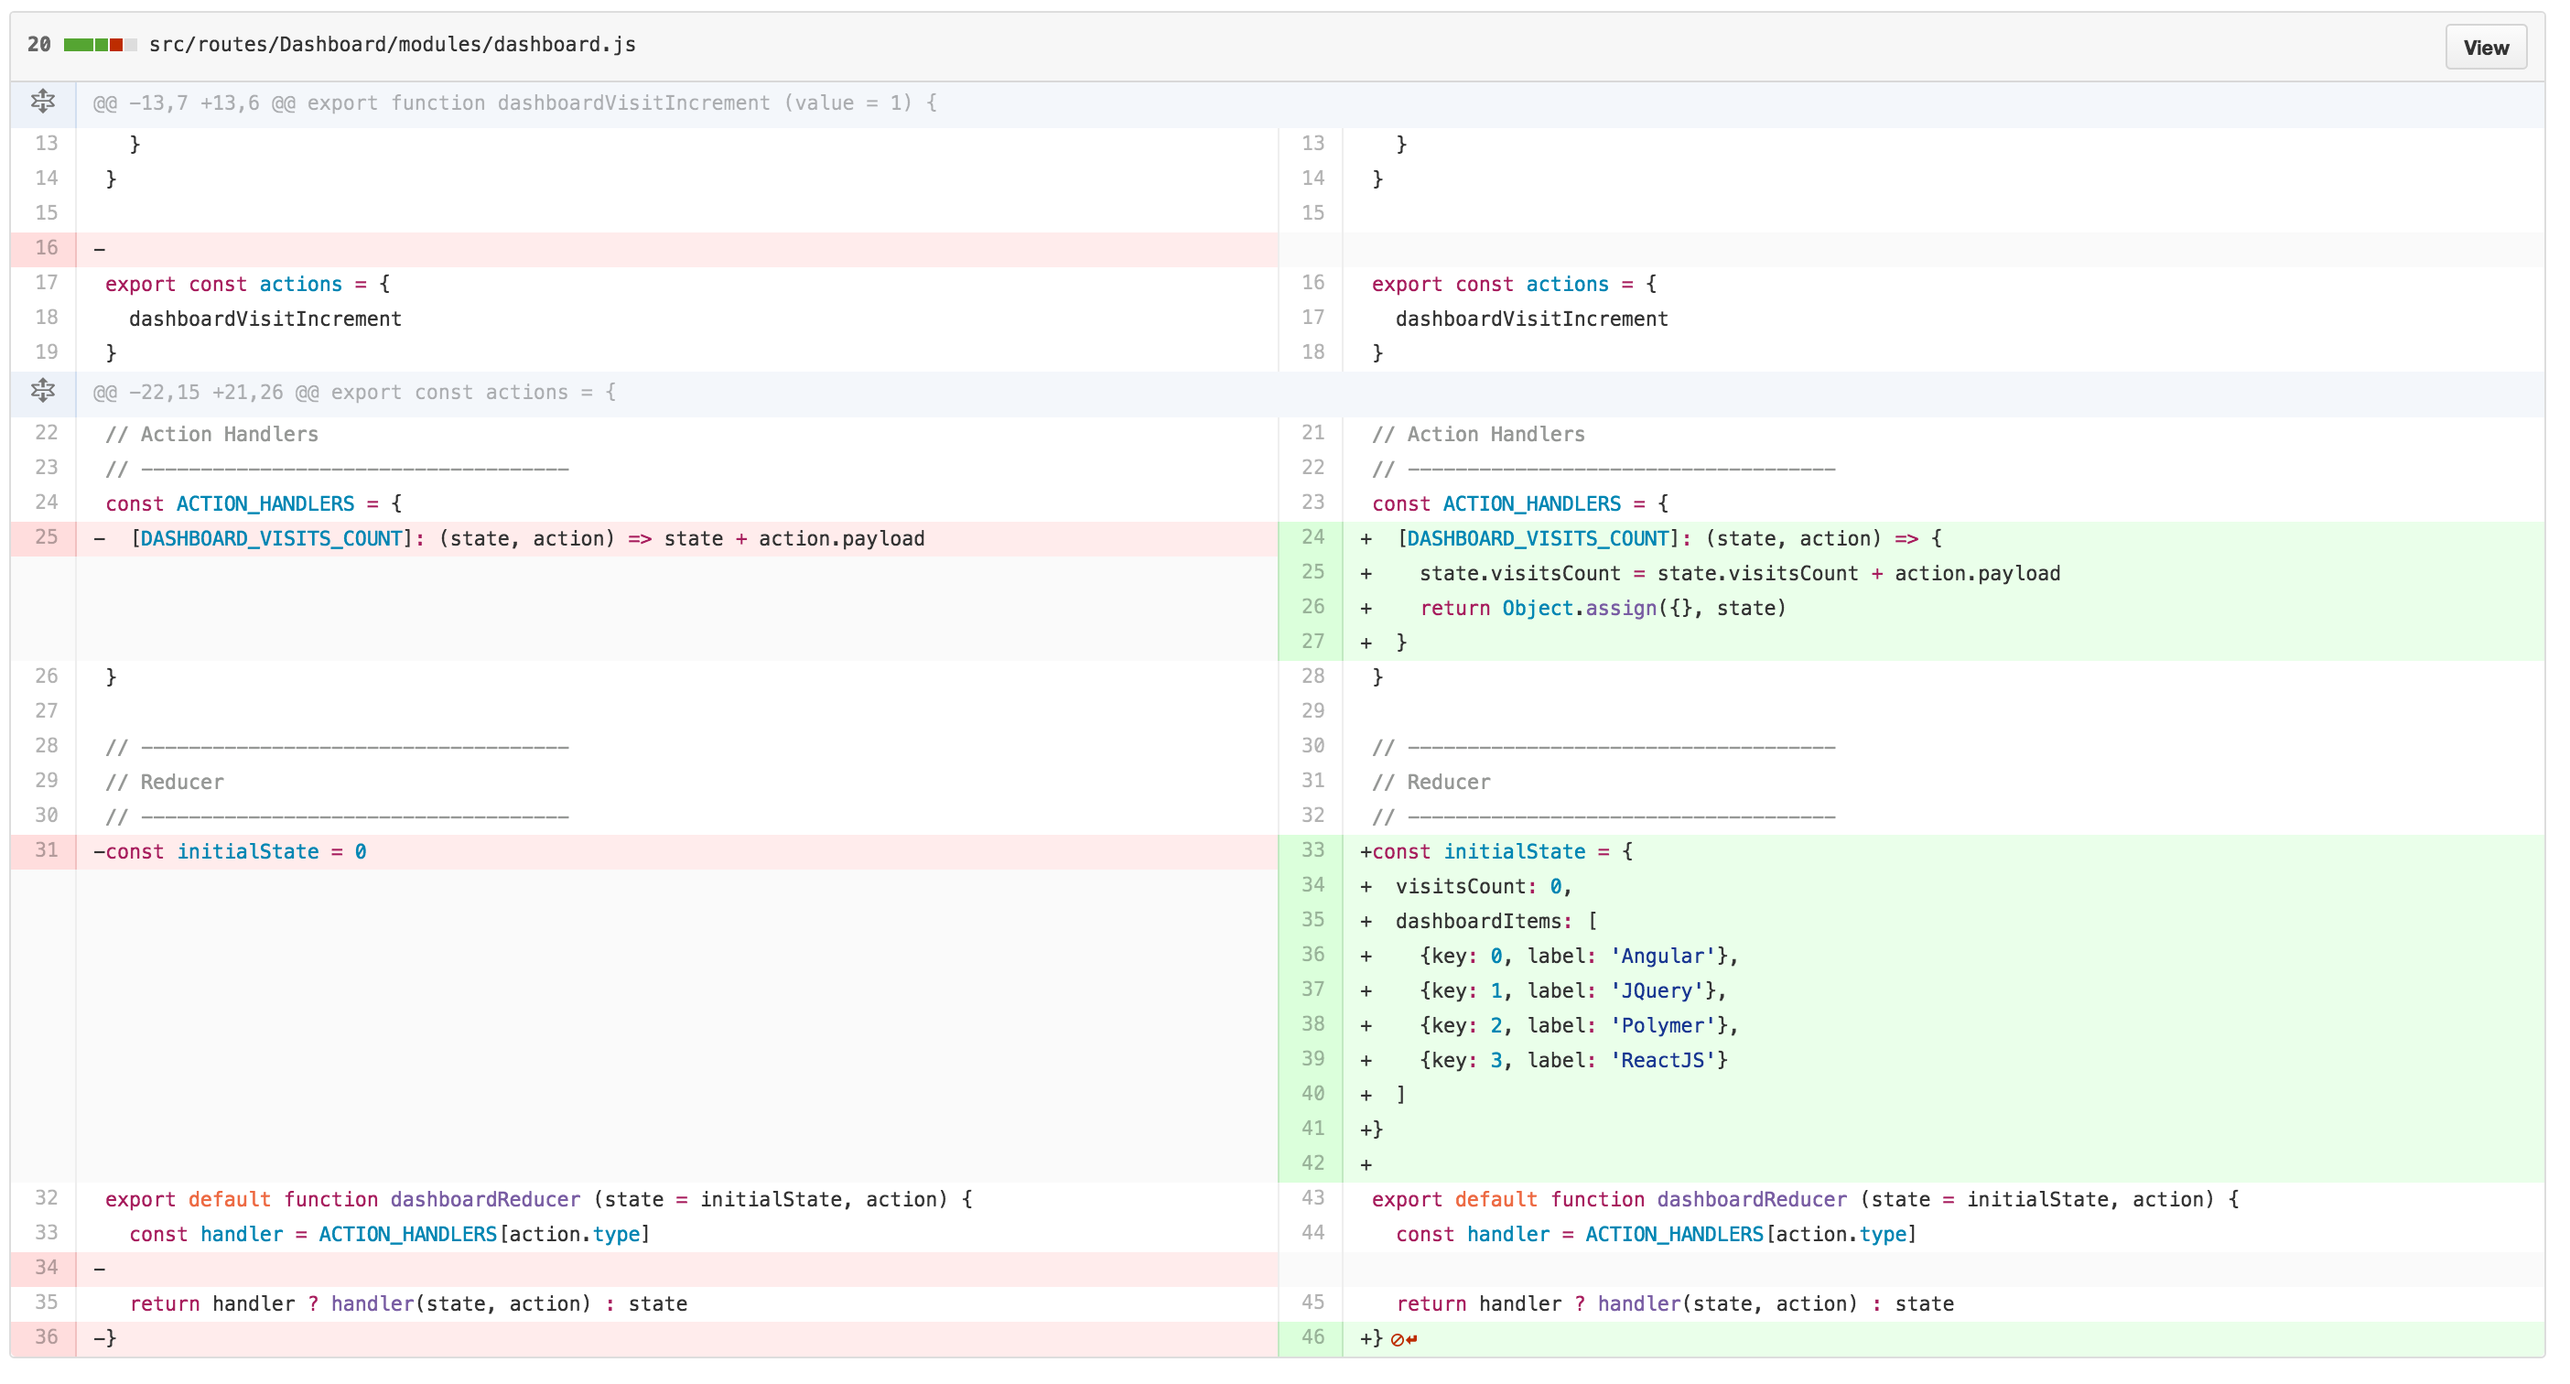
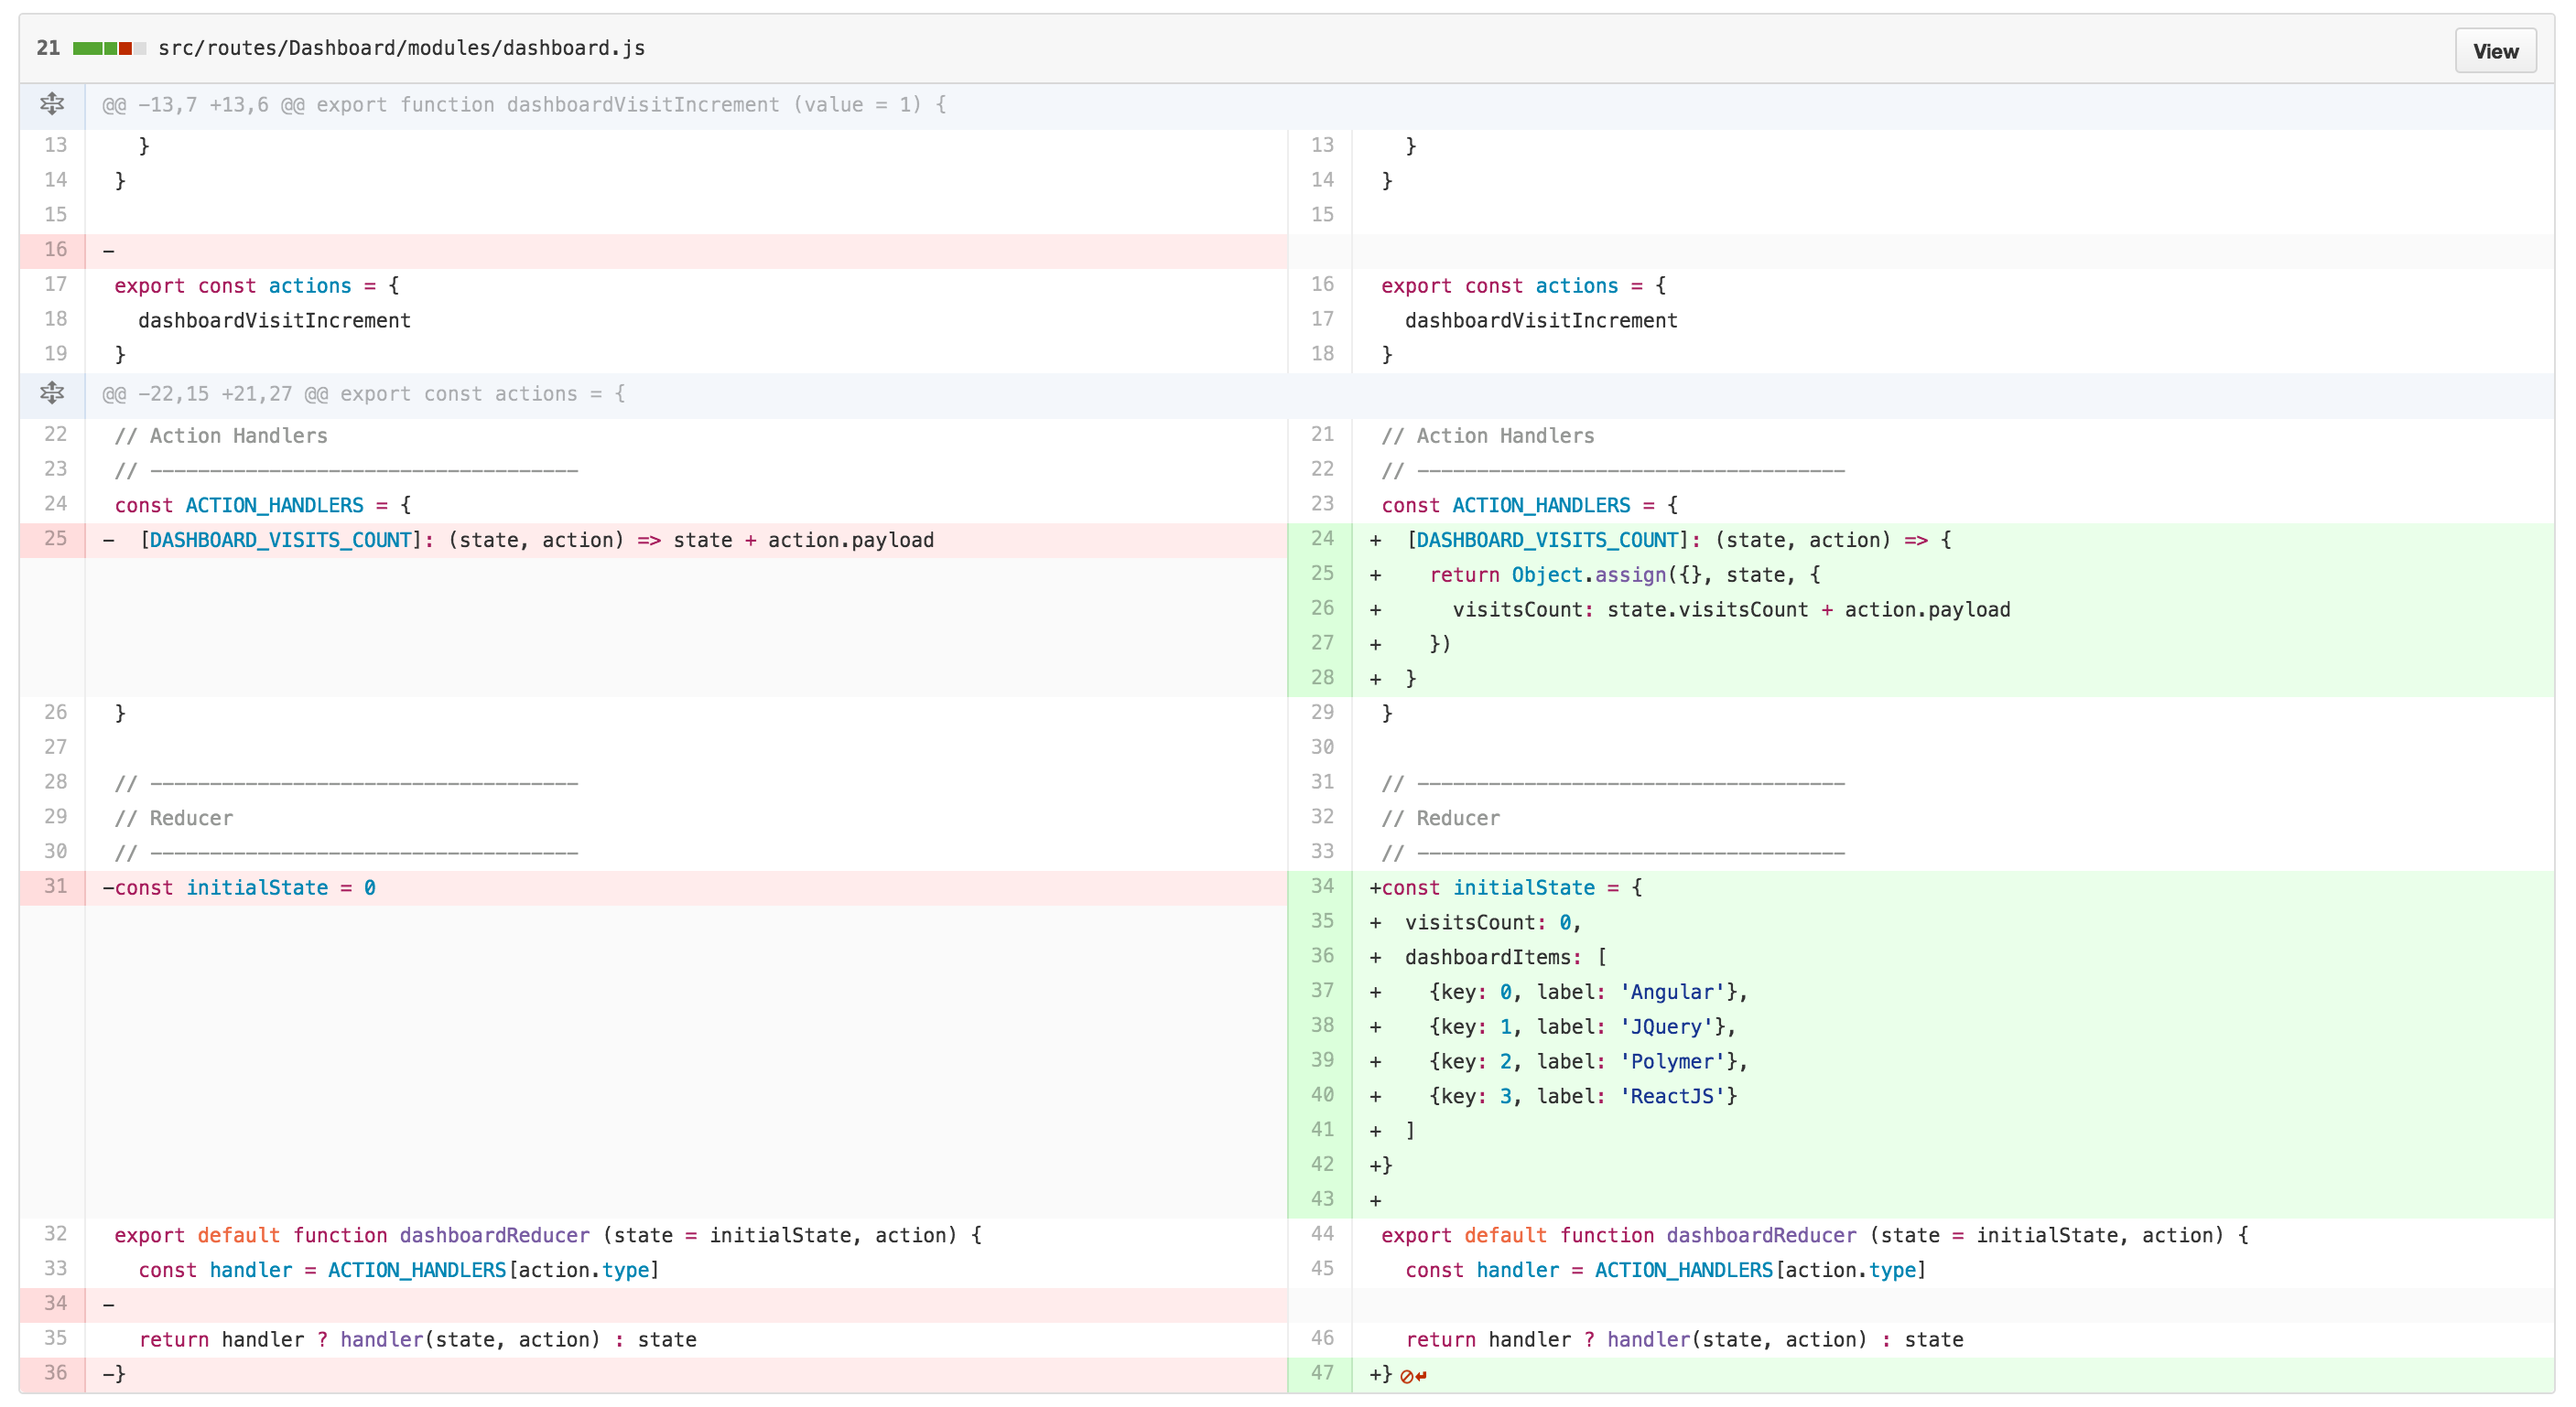
IMPROVED reducers

diff --git a/reactconvention-www/free-handbook2.html b/reactconvention-www/free-handbook2.html
@@ -1146,19 +1146,20 @@ const initialState = {
 <p>with new:</p>
 
 <pre><code>// updated codebase
-[DASHBOARD_VISITS_COUNT]: (state, action) =&gt; { 
-  state.visitsCount = state.visitsCount + action.payload
-  return Object.assign({}, state)
-}
+  [DASHBOARD_VISITS_COUNT]: (state, action) =&gt; { 
+    return Object.assign({}, state, {
+      visitsCount: state.visitsCount + action.payload
+    })
+  }
 </code></pre>
 
-<p>That <strong>DASHBOARD_VISITS_COUNT</strong> change was required because as was written earlier, we have modified the initalState's structure of the dashboard reducer (so we need also to change the function that handles it).</p>
+<p>That <strong>DASHBOARD_VISITS_COUNT</strong> change was required because as was written earlier, we have modified the initalState's structure of the dashboard reducer (so we need also to change the function that handles it). The Object.assign's visitsCount is used the same way as on the Redux's tutorial's videos on EggHead.</p>
 
 <p>As a final currently, we have a little improved dashboard with a list and the visitsCount also works as previously (alongside with improved dashboard's reducer):</p>
 
 <p><a href="https://reactjs.co/wp-content/react_convention/920_app_dashboard_with_list.gif" target="_blank"><img src="https://reactjs.co/wp-content/react_convention/920_app_dashboard_with_list.gif" alt="920_app_dashboard_with_list.gif" style="max-width:100%;"></a></p>
 
-<pre><code>Source code from the screenshots: https://github.com/przeor/ReactC/commit/8eef288af11d36d6485f00174f4b347ffd219508
+<pre><code>Source code from the screenshots: https://github.com/przeor/ReactC/commit/1b2df4cd38872810257008d82559e8a0116f011b
 </code></pre>
 
 <h2 id="addedit-item-on-the-dashboard-list">Add/edit item on the dashboard list</h2>
@@ -1192,24 +1193,29 @@ export function dashboardEditItem (value) {
 
 <p>... then after an action is requrested from a Dashboard's component, we handle it with:</p>
 
-<pre><code>  [DASHBOARD_ADD_ITEM]: (state, action) =&gt; { 
+<pre><code>
+  [DASHBOARD_ADD_ITEM]: (state, action) =&gt; { 
     const mockedId = Math.floor(Date.now() / 1000)
     const newItem = {
       label: action.payload,
       id: mockedId
     }
-    state.dashboardItems.push(newItem)
-    return Object.assign({}, state)
+    return Object.assign({}, state, {
+      dashboardItems: [...state.dashboardItems, newItem]
+    })
   },
   [DASHBOARD_EDIT_ITEM]: (state, action) =&gt; { 
     const newLabel = action.payload.val
     const index = action.payload.editedItemIndex
-    state.dashboardItems[index].label = newLabel
-    return Object.assign({}, state)
+    let immutableDashboardItems = [...state.dashboardItems]
+    immutableDashboardItems[index].label = newLabel
+    return Object.assign({}, state, {
+      dashboardItems: immutableDashboardItems
+    })
   }
 </code></pre>
 
-<p>In both functions above, we are returining a new object with <strong><em>return Object.assign({}, state)</em></strong>. Rest of the code shall be self-explaining for you.</p>
+<p>In both functions above, we are returining a new object with <strong><em>return Object.assign</em></strong>. Rest of the code shall be self-explaining for you.</p>
 
 <pre><code>Changes in (you can click the diffs image to make it larger):
 src/routes/Dashboard/containers/DashboardContainer.js
@@ -1348,7 +1354,7 @@ src/components/Dashboard/Dashboard.js
 <p><a href="https://reactjs.co/wp-content/react_convention/925_edit_add_anim.gif" target="_blank"><img src="https://reactjs.co/wp-content/react_convention/925_edit_add_anim.gif" alt="925_edit_add_anim.gif" style="max-width:100%;"></a></p>
 
 <pre><code>Source of the commit's screenshots: 
-https://github.com/przeor/ReactC/commit/f836fd4f2eccec2a3740e875247abc7870efa245
+https://github.com/przeor/ReactC/commit/b94cf9935ab632065ee0d9b5f9126159317c1178
 </code></pre>
 
 <h2 id="reorder-an-item-on-the-dashboard-list-pure-react-drag-and-drop-example">Reorder an item on the dashboard list (pure React Drag and Drop example)</h2>
@@ -1389,8 +1395,10 @@ src/routes/Dashboard/modules/dashboard.js
         }
       }
     })
-    state.dashboardItems = newDashboardItems
-    return Object.assign({}, state)
+
+    return Object.assign({}, state, {
+      dashboardItems: newDashboardItems
+    })
   }
 </code></pre>
 
@@ -1508,7 +1516,7 @@ src/components/Dashboard/Dashboard.js
 <p><a href="https://reactjs.co/wp-content/react_convention/930_dashboard_reordering.gif" target="_blank"><img src="https://reactjs.co/wp-content/react_convention/930_dashboard_reordering.gif" alt="930_dashboard_reordering" style="max-width:100%;"></a></p>
 
 <pre><code>Source of the commit's screenshots: 
-https://github.com/przeor/ReactC/commit/126d2ae53e89ba6731cd923311d6646bb543f8a1
+https://github.com/przeor/ReactC/commit/1f40f87a9b0ab4bd823e7a922f88f7a8a8ab1b9a
 </code></pre>
 
 <h2 id="login-with-mocked-data-front-end">Login with mocked data (front-end)</h2>
@@ -1610,13 +1618,15 @@ dispatch(push('/dashboard'))
 // ------------------------------------
 const ACTION_HANDLERS = {
   [SESSION_LOGIN_SUCCESS]: (state, action) =&gt; {
-    state.loginToken = action.payload
-    state.isNotLoggedIn = false
-    return Object.assign({}, state)
+    return Object.assign({}, state, {
+      loginToken: action.payload,
+      isNotLoggedIn: false
+    })
   },
   [SESSION_LOGIN_FAIL]: (state, action) =&gt; {
-    state.loginToken = action.payload
-    return Object.assign({}, state)
+    return Object.assign({}, state, {
+      loginToken: action.payload
+    })
   }
 }
 
@@ -1752,7 +1762,7 @@ src/components/Header/Header.js
 
 <p><a href="https://reactjs.co/wp-content/react_convention/938_anim.gif" target="_blank"><img src="https://reactjs.co/wp-content/react_convention/938_anim.gif" alt="938_anim" style="max-width:100%;"></a></p>
 
-<pre><code>Commits screenshots source: https://github.com/przeor/ReactC/commit/83132ab8e71095075f8dfbe8dfcc98fe5ef5c8da
+<pre><code>Commits screenshots source: https://github.com/przeor/ReactC/commit/52ac2ef6317e53ad736355506db346eab898c7e2
 </code></pre>
 
 <h2 id="a-summary-front-end-part">A summary (front-end part) </h2>
